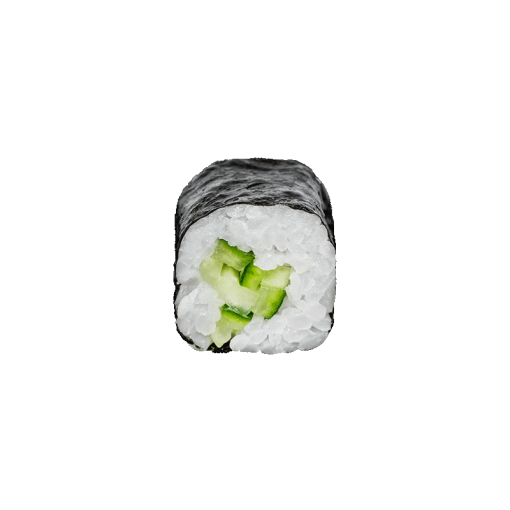
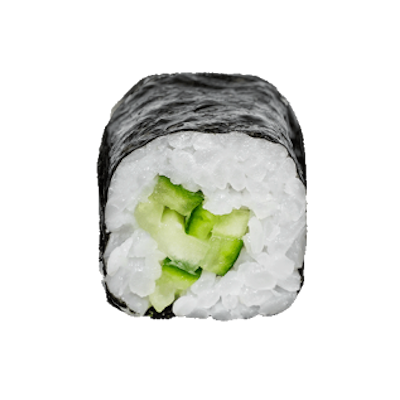
adjusting images to correct resolution

Changed region(s): [[0.24, 0.18, 0.78, 0.81]]

diff --git a/src/components/SushiComponent.vue b/src/components/SushiComponent.vue
@@ -64,8 +64,8 @@ export default {
 }
 
 .product-image {
-  width: 100px;
-  height: 100px;
+  width: 20%;
+  height: auto;
   object-fit: cover;
   border-radius: 10px;
 }

diff --git a/src/components/ProductListComponent.vue b/src/components/ProductListComponent.vue
@@ -74,7 +74,7 @@
 
 .product-image {
   width: 100px;
-  height: 100px;
+  height: auto;
   object-fit: cover;
   border-radius: 10px;
 }
